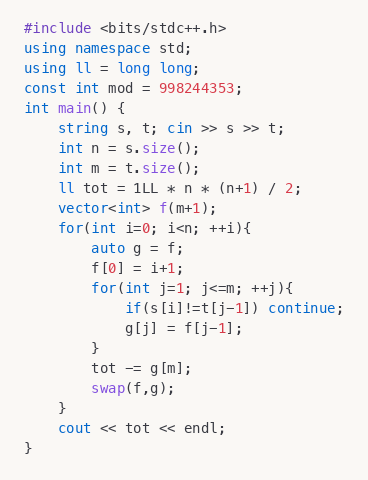
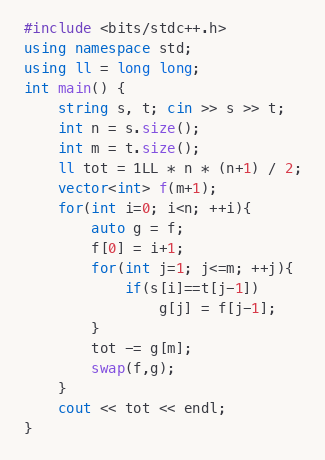
Update ABC452 D.cpp code (remove unused mod, simplify condition)

diff --git a/ABC452/d.cpp b/ABC452/d.cpp
@@ -1,7 +1,6 @@
 #include <bits/stdc++.h>
 using namespace std;
 using ll = long long;
-const int mod = 998244353;
 
 int main() {
     string s, t; cin >> s >> t;
@@ -13,8 +12,8 @@ int main() {
         auto g = f;
         f[0] = i+1;
         for(int j=1; j<=m; ++j){
-            if(s[i]!=t[j-1]) continue;
-            g[j] = f[j-1];
+            if(s[i]==t[j-1])
+                g[j] = f[j-1];
         }
         tot -= g[m];
         swap(f,g);
